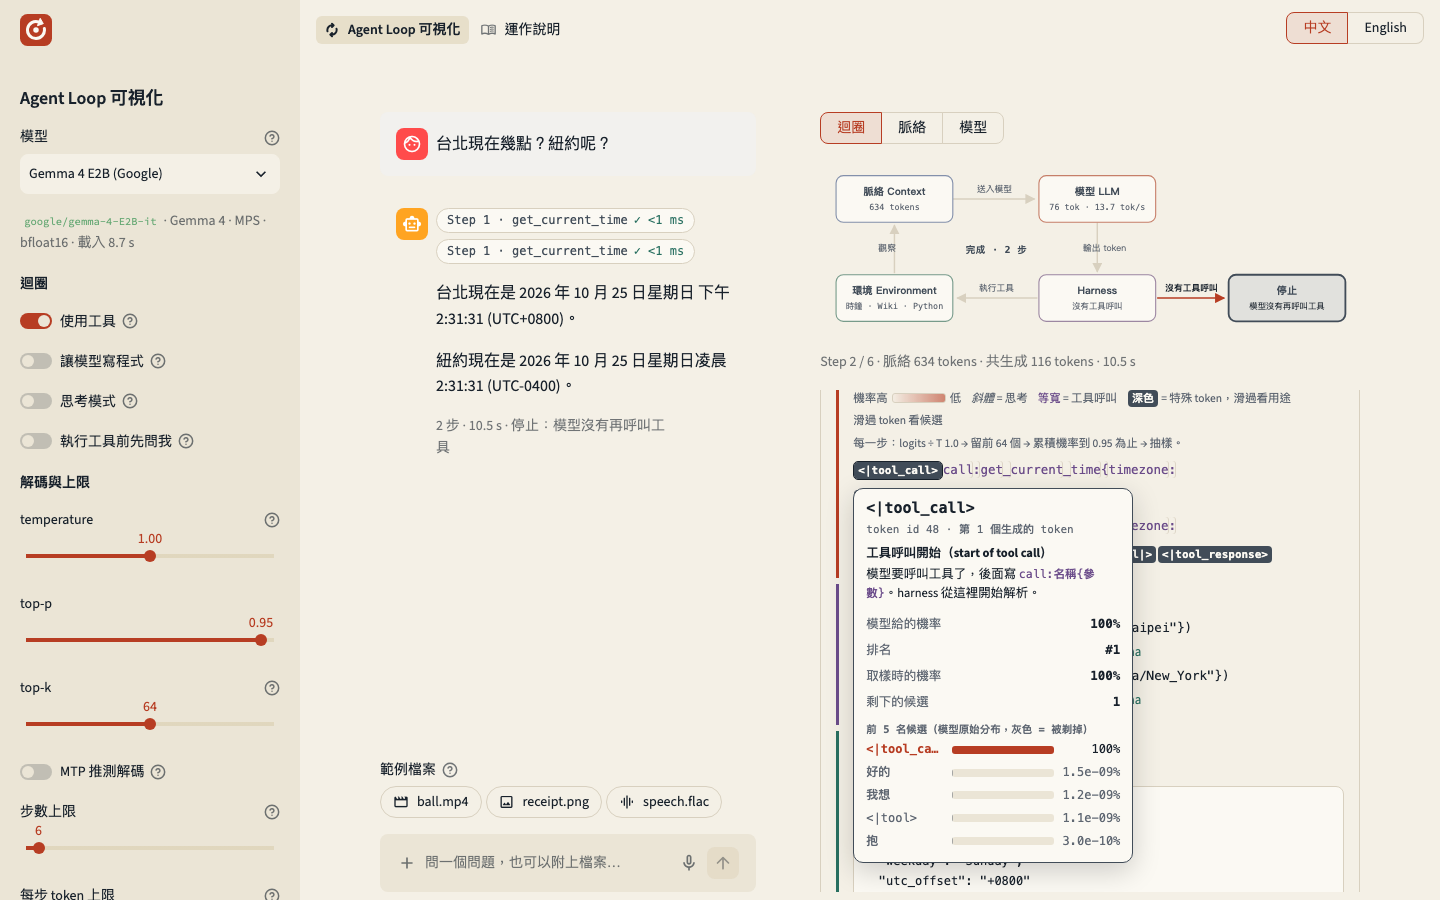
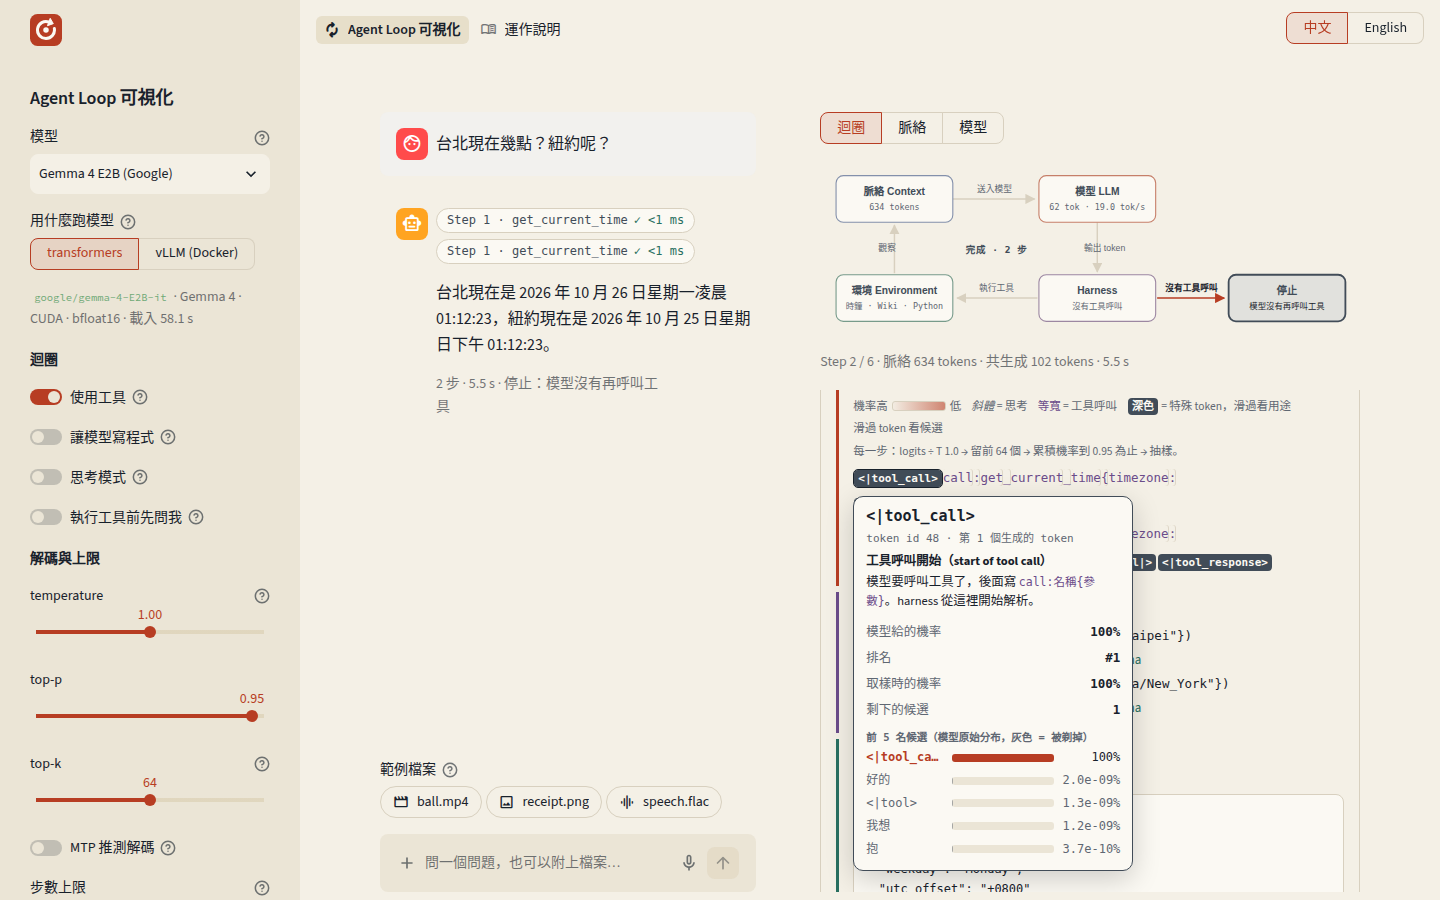
Retake the README screenshots with the What runs the model switch
The screenshots predated the sidebar's What runs the model switch. The new
ones show the same scene from a real Gemma 4 E2B run with transformers,
each page in its README's language: the first example answered, and the
pointer on step 1's <|tool_call> with its whole popover open. The alt
text in both READMEs mentions the switch.

Retaking the Chinese one showed the switch wrapping onto two lines: with
full-width parentheses, 「vLLM（Docker）」 does not fit beside
transformers in the sidebar. The option is now vLLM (Docker) in both
languages, as the model menu's labels are, and the Chinese README quotes
it that way.

Claude-Session: https://claude.ai/code/session_014rxWUzYKrv3UfH4N9hjuHh

diff --git a/app/page.py b/app/page.py
@@ -404,7 +404,8 @@ def model_picker(menu: dict[str, str], busy: bool):
                     "The harness, the tools and the page stay the same."),
         )
         if not VLLM_URL:
-            engines = {"local": "transformers", "vllm": tr("vLLM（Docker）", "vLLM (Docker)")}
+            # The same in both languages: with full-width parentheses the two options no longer fit side by side.
+            engines = {"local": "transformers", "vllm": "vLLM (Docker)"}
             st.segmented_control(
                 tr("用什麼跑模型", "What runs the model"), list(engines), format_func=engines.get, key="engine", required=True,
                 on_change=switch_engine, disabled=busy,

diff --git a/tests/test_app.py b/tests/test_app.py
@@ -599,7 +599,7 @@ def pick_engine(at, value):
 
 
 def test_without_vllm_url_transformers_runs_the_model_and_docker_is_left_alone(docker_vllm, at, models):
-    assert engine(at).value == "local" and engine(at).options == ["transformers", "vLLM（Docker）"]
+    assert engine(at).value == "local" and engine(at).options == ["transformers", "vLLM (Docker)"]  # the same in both languages: full-width parentheses wrap the switch
     assert [m.model_id for m in models] == ["google/gemma-4-E2B-it"] and docker_vllm["started"] == [] and docker_vllm["stopped"] == 0
 
 

diff --git a/README.md b/README.md
@@ -4,7 +4,7 @@
 
 English | [繁體中文](README.zh-TW.md)
 
-![The top bar links to the How it works page, the switch at the top right changes the language, and the sidebar picks the model; on the left is the chat, with the sample files to ask about above the input box, on the right the loop diagram and the tokens of step 1. The pointer rests on the special token <|tool_call>, whose popover says what it is for and shows its probability, its rank and the top 5 candidates.](docs/screenshot-en.png)
+![The top bar links to the How it works page, the switch at the top right changes the language, and the sidebar picks the model and what runs it; on the left is the chat, with the sample files to ask about above the input box, on the right the loop diagram and the tokens of step 1. The pointer rests on the special token <|tool_call>, whose popover says what it is for and shows its probability, its rank and the top 5 candidates.](docs/screenshot-en.png)
 
 This project is for learning: it shows how an agent loop works underneath, in a way more intuitive and visual than reading about it. Behind an agent's chat box runs a loop: step after step, the model proposes an action and the harness carries it out, until it stops. A chat app shows only the question and the answer; this page draws every step as it happens, down to each token the model writes, so the whole mechanism is laid out in front of you. Each part of the page matches a section of the Unit 01 reading of [Agent Atlas](https://cyyeh.github.io/agent-atlas-learning/) (in Traditional Chinese), the course this project belongs to, and [Experiments to try](#experiments-to-try) turns those ideas into things you can try yourself.
 
